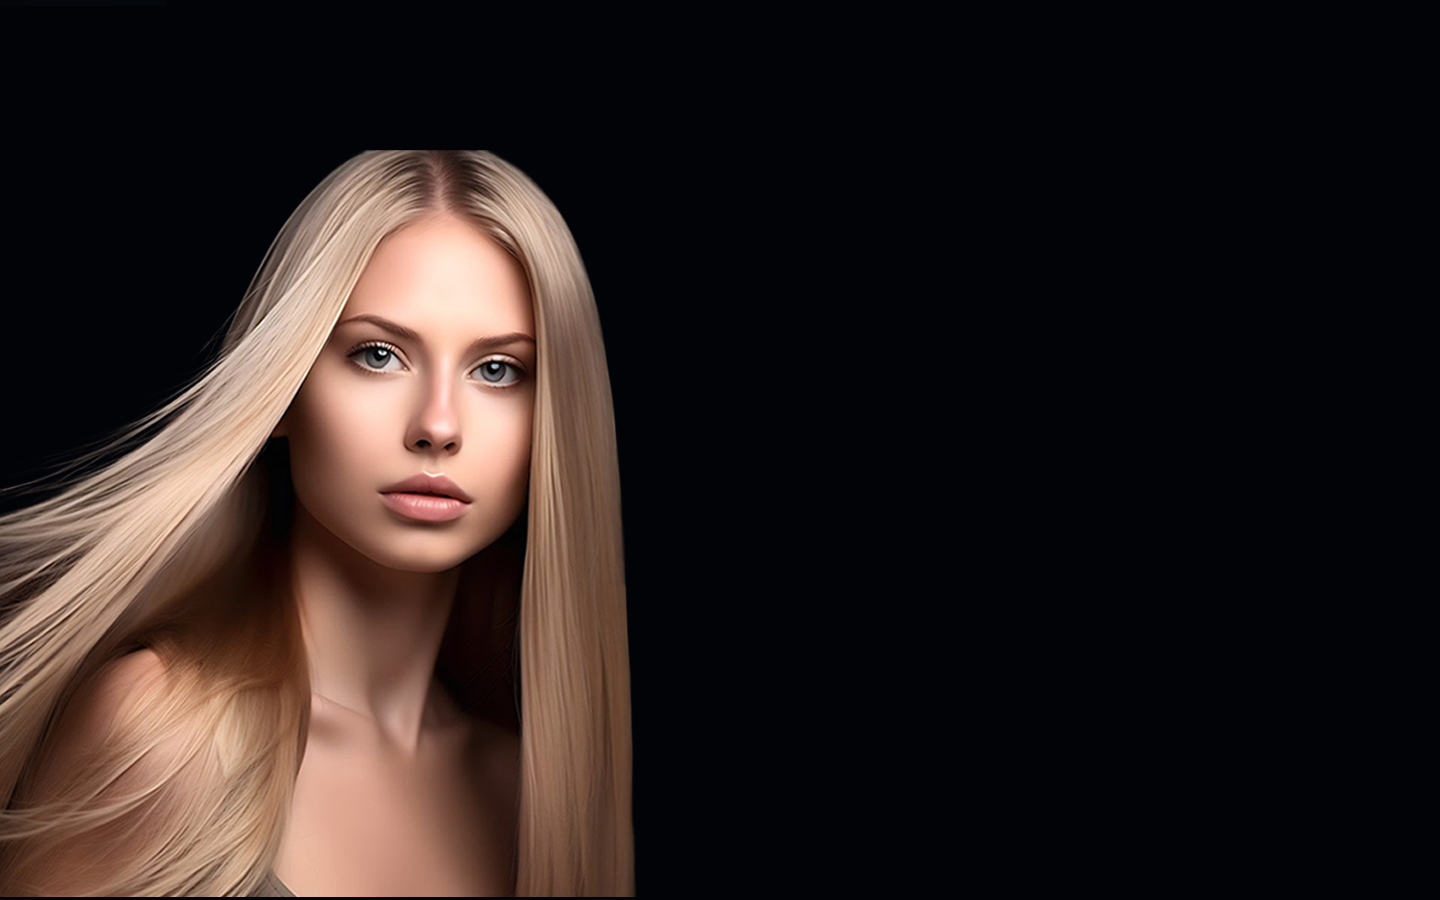
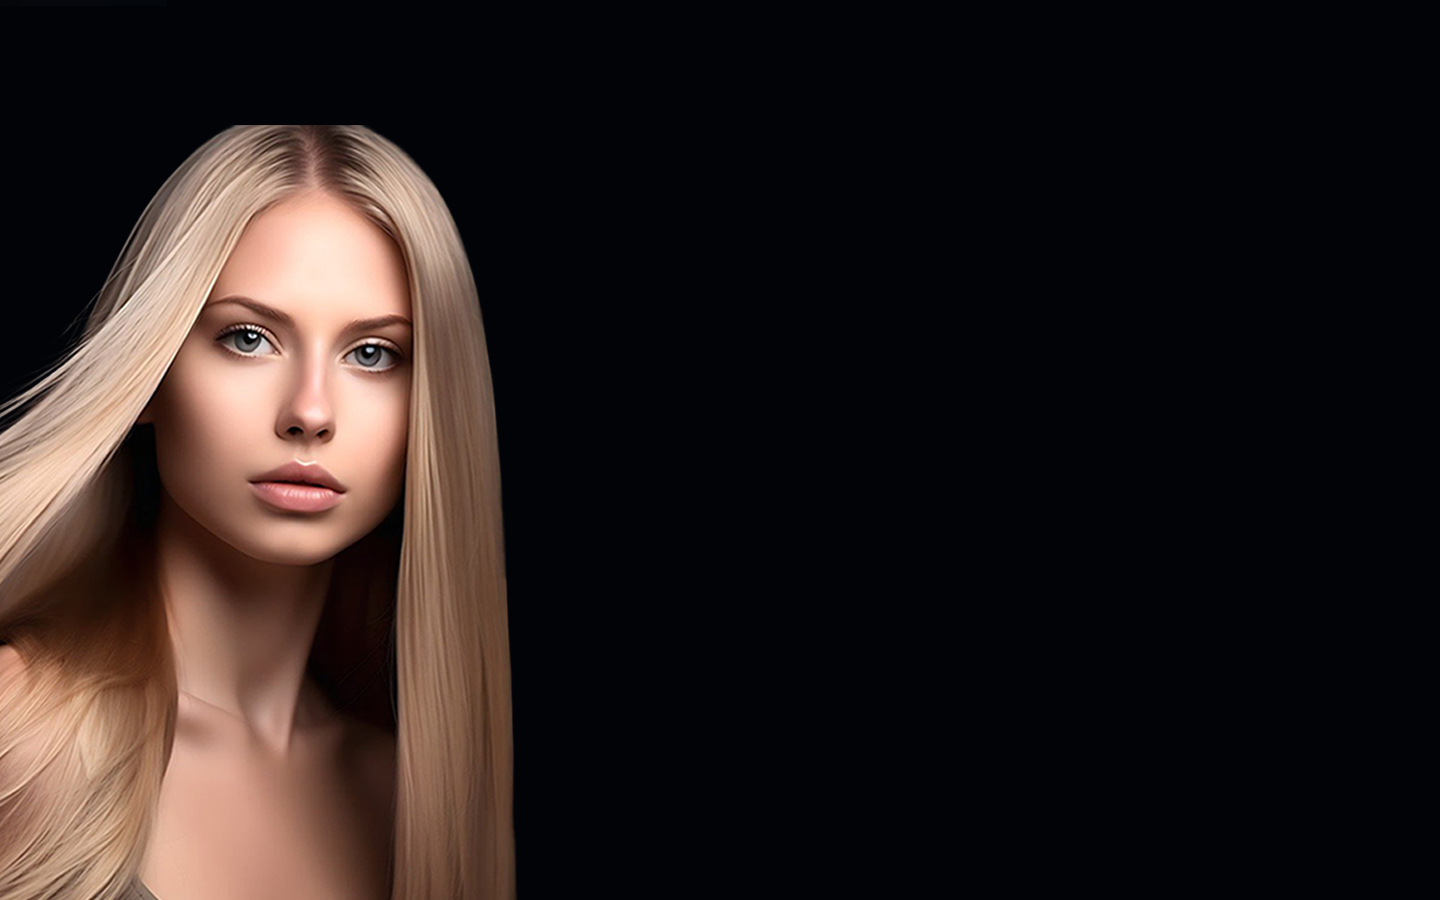
Adjust the header image

diff --git a/templates/base.html b/templates/base.html
@@ -44,7 +44,7 @@
   </head>
   <body>
     <header class="">
-        <nav class="navbar navbar-expand-lg navbar-light bg-light">
+        <nav class="navbar navbar-expand-lg navbar-light bg-light top-nav">
             <a href="{% url 'home' %}" class="nav-link main-logo-link text-dark">
                 <h2 class="logo-title text-black">THE HAIR EXPERTS</h2>
             </a>

diff --git a/static/css/base.css b/static/css/base.css
@@ -17,7 +17,7 @@ html{
 .heroimg {
     background: url('/media/top-pic.jpg')no-repeat center center/cover;
     width: 100%;
-    height: 95vh;
+    height: 90vh;
     display: flex;
     justify-content: flex-end;
     align-items: center;
